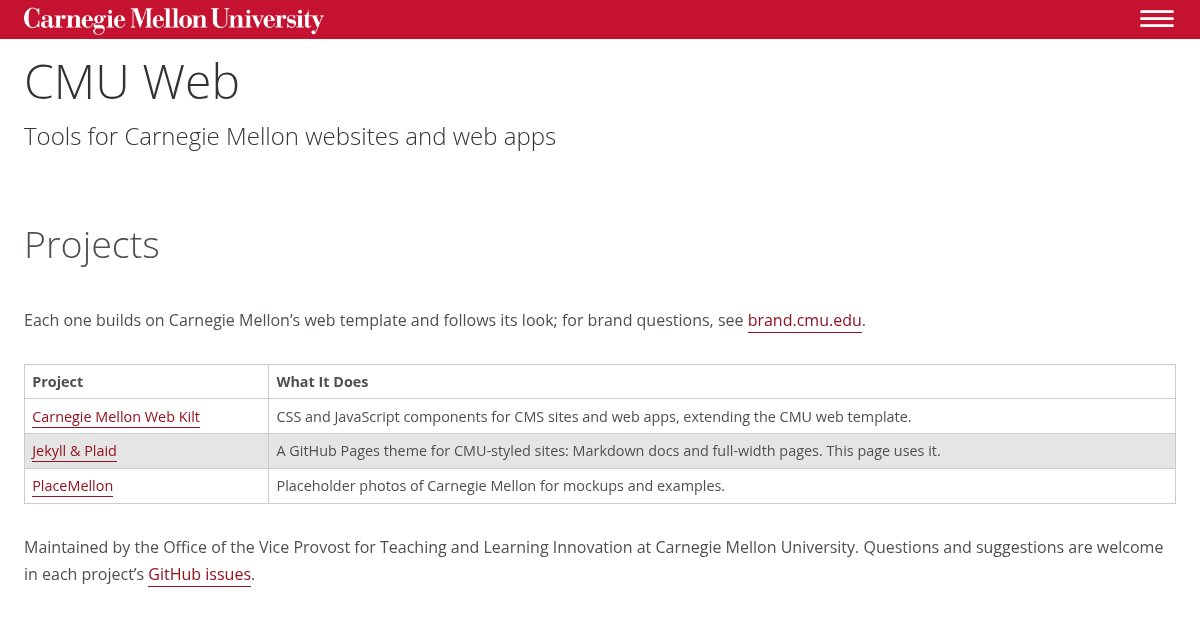
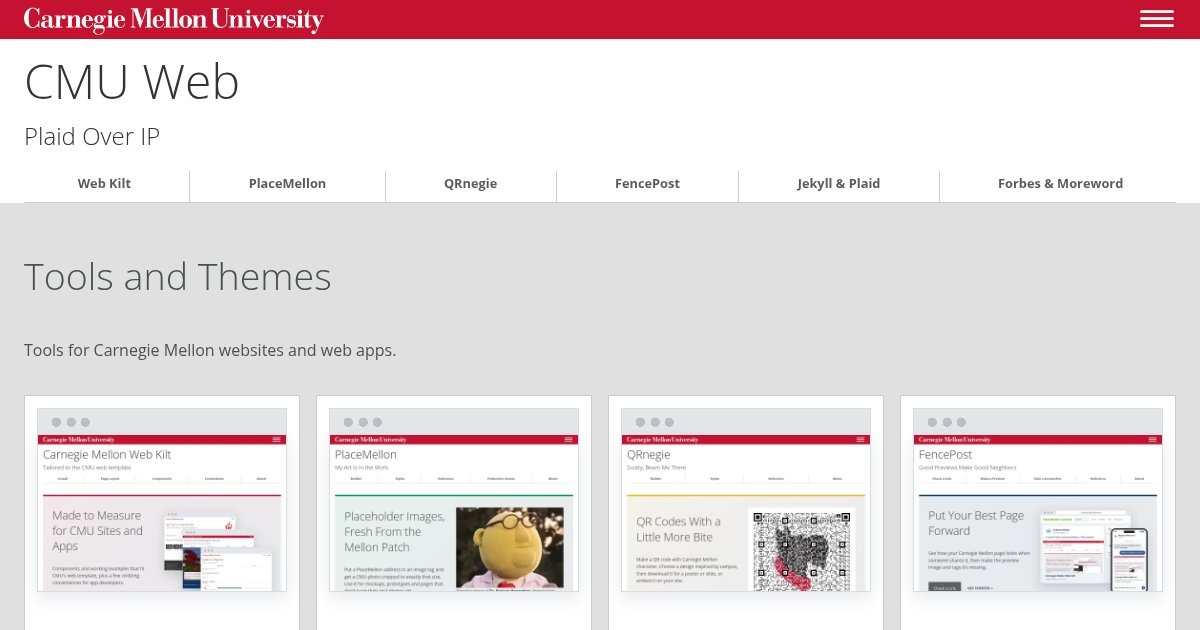
feat: Tools and Themes heading and a new slogan
* The projects grid gets a visible Tools and Themes heading, with the line about what they're for under it
* Slogan: Plaid Over IP
* New link preview image

diff --git a/index.html b/index.html
@@ -5,10 +5,8 @@ description: Tools for Carnegie Mellon websites and web apps.
 breadcrumbs: false
 ---
 <div class="grid column4 grey boxes" id="projects">
-  <h1 class="sr-only">CMU Web Projects</h1>
-  <p class="cmu-grid-full">
-    Each one builds on Carnegie Mellon's web template and follows its look.
-  </p>
+  <h1 class="cmu-grid-full">Tools and Themes</h1>
+  <p class="cmu-grid-full">Tools for Carnegie Mellon websites and web apps.</p>
   <div>
     <figure class="cmu-shot cmu-shot--browser">
       <a href="web-kilt.html" tabindex="-1" aria-hidden="true"
